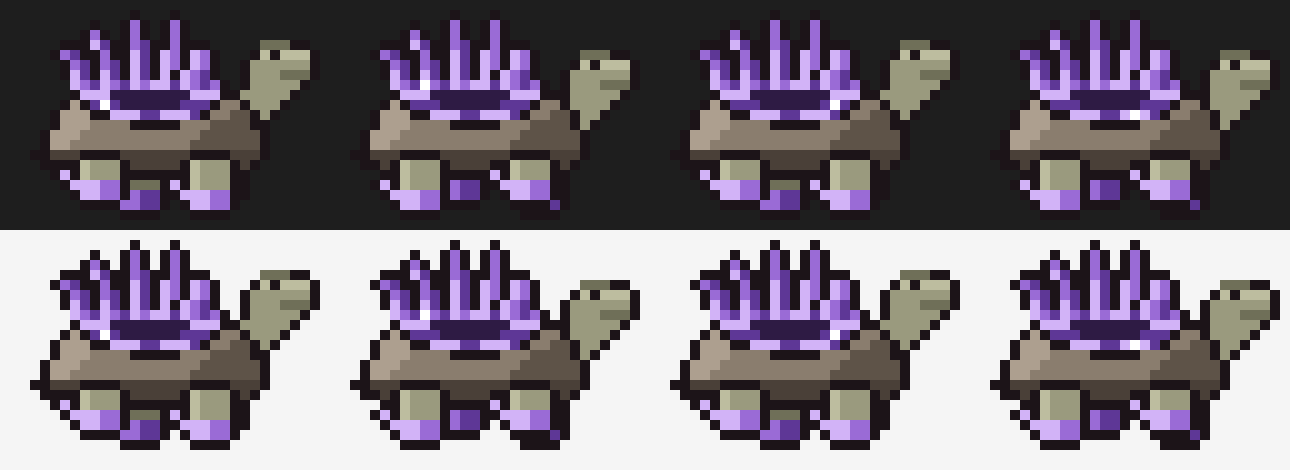
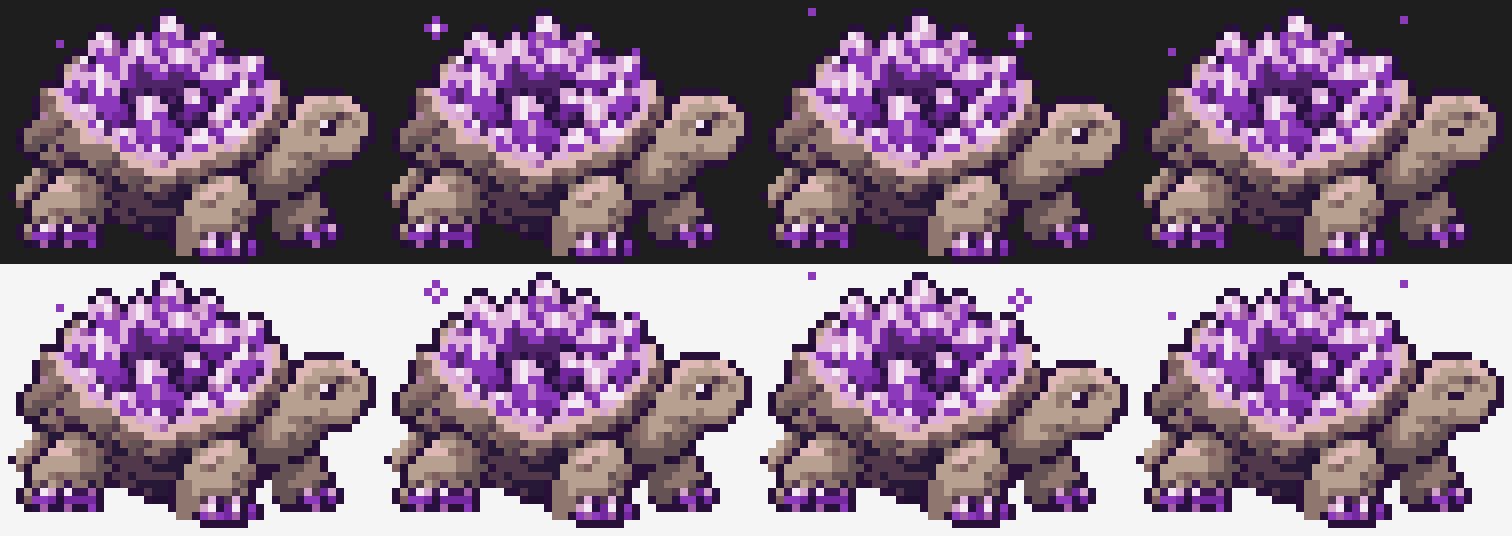
P5-26: redraw Geodon from @danielpg95's reference

diff --git a/plugin/content/CREDITS.md b/plugin/content/CREDITS.md
@@ -29,7 +29,7 @@ noted (decision 0011). Add a row whenever you add or change an asset.
 | `modsters/echobat/sprite.png` | @danielpg95 (drawn with Claude Code) | CC BY 4.0 | Echobat, redrawn in P5-26 from @danielpg95's reference |
 | `modsters/prismite/sprite.png` | @danielpg95 (drawn with Claude Code) | CC BY 4.0 | Prismite, redrawn in P5-26 from @danielpg95's reference |
 | `modsters/quartzclaw/sprite.png` | @danielpg95 (drawn with Claude Code) | CC BY 4.0 | Quartzclaw, redrawn in P5-26 from @danielpg95's reference |
-| `modsters/geodon/sprite.png` | @danielpg95 (drawn with Claude Code) | CC BY 4.0 | Crystal Grotto |
+| `modsters/geodon/sprite.png` | @danielpg95 (drawn with Claude Code) | CC BY 4.0 | Geodon, redrawn in P5-26 from @danielpg95's reference |
 | `modsters/gemsnake/sprite.png` | @danielpg95 (drawn with Claude Code) | CC BY 4.0 | Crystal Grotto |
 | `modsters/amethowl/sprite.png` | @danielpg95 (drawn with Claude Code) | CC BY 4.0 | Crystal Grotto |
 | `modsters/geolem/sprite.png` | @danielpg95 (drawn with Claude Code) | CC BY 4.0 | Crystal Grotto |
